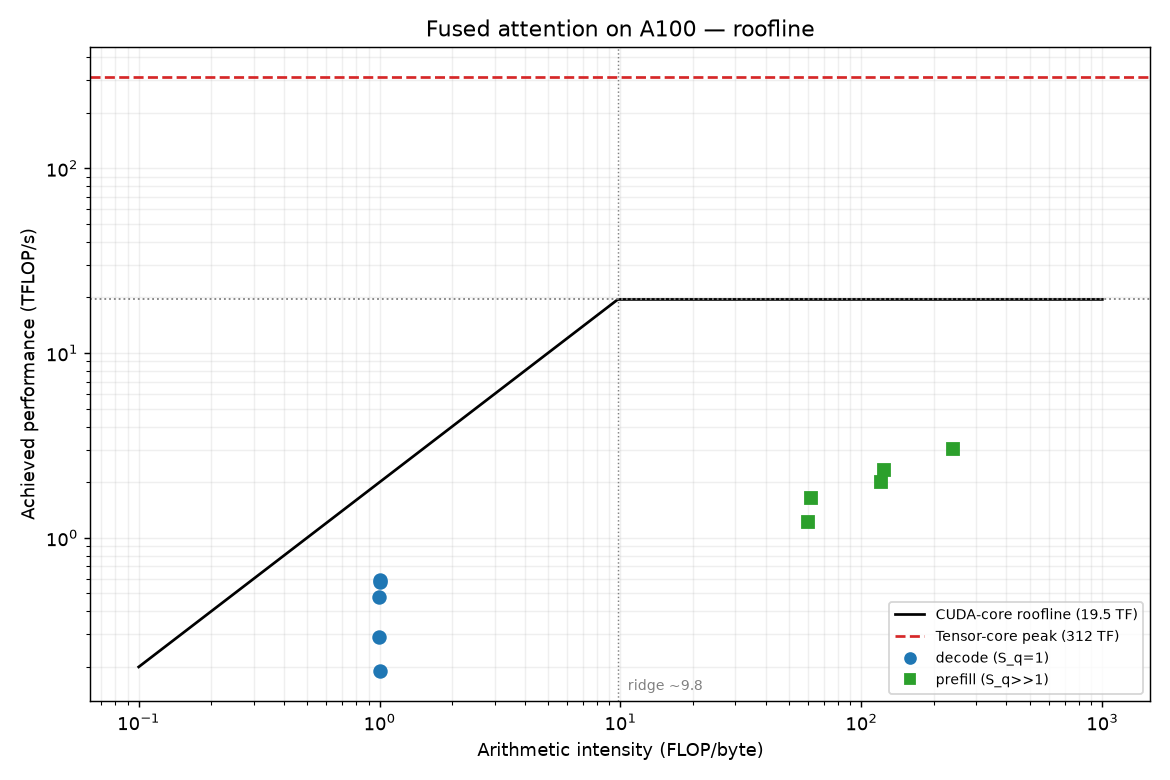
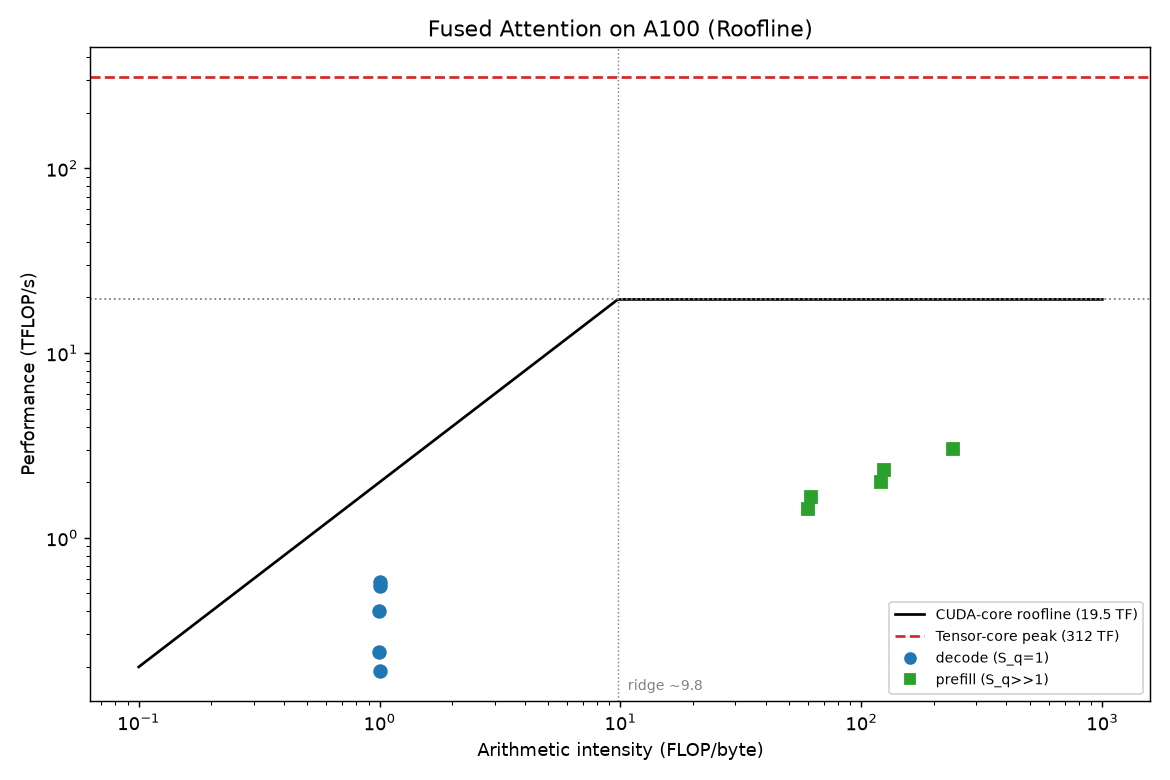
updated roofline

diff --git a/bench/roofline.py b/bench/roofline.py
@@ -9,30 +9,27 @@ CUDA_PEAK   = 19.5e12
 TENSOR_PEAK = 312e12      
 
 decode = [
-    ("dec 512/64",   1, 512,  64,  0.29),
-    ("dec 512/128",  1, 512,  128, 0.48),
+    ("dec 512/64",   1, 512,  64,  0.24),
+    ("dec 512/128",  1, 512,  128, 0.40),
     ("dec 2048/64",  1, 2048, 64,  0.19),
-    ("dec 2048/128", 1, 2048, 128, 0.58),
-    ("dec 4096/128", 1, 4096, 128, 0.59),
+    ("dec 2048/128", 1, 2048, 128, 0.55),
+    ("dec 4096/128", 1, 4096, 128, 0.58),
 ]
 prefill = [
-    ("pre 1024/64",   64,  1024, 64,  1.21),
-    ("pre 2048/128",  64,  2048, 128, 1.65),
+    ("pre 1024/64",   64,  1024, 64,  1.43),
+    ("pre 2048/128",  64,  2048, 128, 1.66),
     ("pre 2048/64",   128, 2048, 64,  2.00),
     ("pre 4096/128",  128, 4096, 128, 2.33),
     ("pre 4096/128b", 256, 4096, 128, 3.03),
 ]
 
 def intensity(Sq, Skv, d):
-    # FLOPs: QK^T (2*Sq*Skv*d) + PV (2*Sq*Skv*d) = 4*Sq*Skv*d
-    # Bytes (bf16=2): Q 2*Sq*d + K 2*Skv*d + V 2*Skv*d + O 2*Sq*d
     flops = 4.0 * Sq * Skv * d
     bytes_ = 2.0 * (2*Sq*d + 2*Skv*d)
     return flops / bytes_
 
 fig, ax = plt.subplots(figsize=(9, 6))
 
-# roofline ceilings
 x = np.logspace(-1, 3, 500)
 ax.plot(x, np.minimum(HBM_BW * x, CUDA_PEAK) / 1e12, 'k-', lw=1.5, label="CUDA-core roofline (19.5 TF)")
 ax.axhline(TENSOR_PEAK / 1e12, color='tab:red', ls='--', lw=1.5, label="Tensor-core peak (312 TF)")
@@ -56,10 +53,10 @@ ax.plot([], [], 's', color='tab:green', label='prefill (S_q>>1)')
 
 ax.set_xscale('log'); ax.set_yscale('log')
 ax.set_xlabel("Arithmetic intensity (FLOP/byte)")
-ax.set_ylabel("Achieved performance (TFLOP/s)")
-ax.set_title("Fused attention on A100 — roofline")
+ax.set_ylabel("Performance (TFLOP/s)")
+ax.set_title("Fused Attention on A100 (Roofline)")
 ax.legend(loc='lower right', fontsize=8)
-ax.grid(True, which='both', alpha=0.2)
+ax.grid(False)
 plt.tight_layout()
 plt.savefig("results/roofline.png", dpi=130)
 print("wrote results/roofline.png")